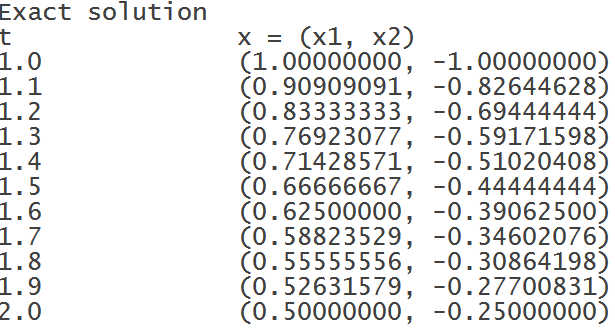
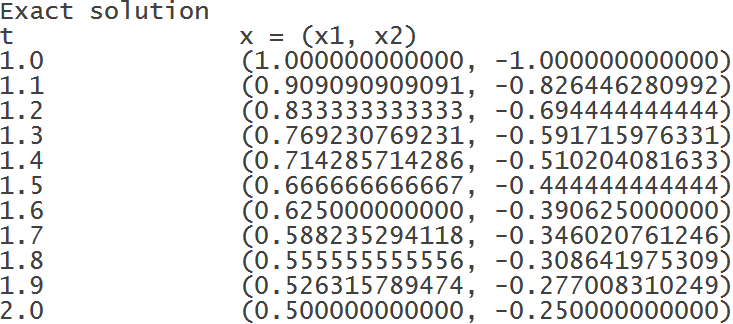
add thinking about errors

diff --git a/lab3/report/latex/lab3.tex b/lab3/report/latex/lab3.tex
@@ -37,14 +37,31 @@
 
 \section{Ход выполнения работы}
 
-Вначале дифференциальное уравнение \ref{equation:1} при помощи подстановок $x_1(t) = y(t)$ и $x_2(t) = y'(t)$ было приведено к системе:
+Вначале дифференциальное уравнение \ref{equation:1} засчёт подстановок $x_1(t) = y(t)$ и $x_2(t) = y'(t)$ было приведено к системе:
+
+%\begin{displaymath}
+%\begin{cases}
+%	x'_1(t) = 0 \cdot x_1(t) + 1 \cdot x_2(t)
+%	\\
+%	x'_2(t) = - \frac{1}{t(t+1)} \cdot x_1(t) - \frac{3t+2}{t(t+1)} \cdot x_2(t)
+%\end{cases}
+%\end{displaymath}
 
 \begin{displaymath}
-\begin{cases}
-	x'_1(t) = 0 \cdot x_1(t) + 1 \cdot x_2(t)
-	\\
-	x'_2(t) = - \frac{1}{t(t+1)} \cdot x_1(t) - \frac{3t+2}{t(t+1)} \cdot x_2(t)
-\end{cases}
+\begin{pmatrix}
+    x'_1(t) \\
+    x'_2(t) \\
+\end{pmatrix}
+  =
+\begin{pmatrix}
+    0 & 1 \\
+    - \frac{1}{t(t+1)} & \frac{3t+2}{t(t+1)} \\
+\end{pmatrix}
+\cdot
+\begin{pmatrix}
+    x_1(t) \\
+    x_2(t) \\
+\end{pmatrix}
 \end{displaymath}
 
 Затем было разработано программное обеспечение на языке программирования \textbf{java}, позволяющее решить поставленные задачи. Данное программное обеспечение включает в себя:
@@ -54,7 +71,7 @@
 
  Она включает в себя функцию \textbf{rkf45}, которая содержит вызов стандартной форсайтовской функции \textbf{rkf45}, разработанной на языке программирования \textbf{с}.
 
- Еще \textbf{Diffeqs} содержит самостоятельно написанную функцию \textbf{eulerCauchy}. Данная функция численно решает дифференциальное уравнение, используя метод Эйлера-Коши 2-й степени:
+ Еще \textbf{Diffeqs} содержит самостоятельно написанную функцию \textbf{eulerCauchy}. Данная функция численно решает дифференциальное уравнение, используя метод Эйлера-Коши 2-й степени.
  
 \begin{displaymath}
 \begin{cases}
@@ -70,48 +87,121 @@
 
 \end{itemize}
 
-На рисунках \ref{pic:demo1} и \ref{pic:demo2} изображен вывод работы программы: результат решения системы дифференциальных уравнений на отрезке $1\dots2$ с шагом $h=0.1$ стандартной функцией \textbf{rkf45}, функцией \textbf{eulerCauchy} и по аналитически полученной точной формуле соответственно.
+На рисунках \ref{pic:demo1} - \ref{pic:demo3} изображен вывод работы программы: результат решения системы дифференциальных уравнений на отрезке $[1, 2]$ с шагом $h=0.1$ стандартной функцией \textbf{rkf45} с установленной относительной погрешностью $10^{-13}$, функцией \textbf{eulerCauchy} и по аналитически полученной точной формуле соответственно.
 
 \begin{figure}[H]
     \centering
-    \begin{subfigure}[t]{0.5\textwidth}
-        \centering
-        \includegraphics[height=1.72in]{rkf45}
-        \caption{RKF45}
-    \end{subfigure}%
-    ~ 
-    \begin{subfigure}[t]{0.5\textwidth}
-        \centering
-        \includegraphics[height=1.72in]{euler_cauchy}
-        \caption{Метод Эйлера-Коши}
-    \end{subfigure}
-    \caption{Вывод программы}
+    \includegraphics[height=2.2in]{rkf45}
+    \caption{Вывод программы: RKF45}
     \label{pic:demo1}
-\end{figure}
+\end{figure} 
+
+\begin{figure}[H]
+    \centering
+    \includegraphics[height=2.2in]{euler_cauchy}
+    \caption{Вывод программы: метод Эйлера-Коши}
+    \label{pic:demo2}
+\end{figure} 
 
 \begin{figure}[H]
     \centering
     \includegraphics[height=2.2in]{exact}
     \caption{Вывод программы: точное решение}
-    \label{pic:demo2}
+    \label{pic:demo3}
 \end{figure} 
 
-По выводу программы видно, что значения, полученные с использованием функции \textbf{rkf45}, совпадают с точными значениями с точностью 7 - 8 знаков после точки, а значения, полученные методом Эйлера-Коши имеют точность 1 - 2 знака после точки. 
+По выводу программы видно, что значения, полученные с использованием функции \textbf{rkf45}, совпадают с точными значениями с точностью 12 знаков после точки, а значения, полученные методом Эйлера-Коши имеют точность 1 - 2 знака после точки. 
+
+На рисунке \ref{pic:graphic1} изображены графики точного решения исходного дифференциального уравнения \ref{equation:1} и решения методом Эйлера-Коши:
+
+\begin{figure}[H]
+\begin{center}
+	\begin{tikzpicture} [every plot/.append style={thick}]
+		\begin{axis}[			
+			height=0.5\textheight,
+			width=1.0\textwidth,
+			legend pos=north east,
+			xlabel={$t$},
+			ylabel={$y(t)$},
+			xlabel near ticks,
+			ylabel near ticks,			
+			xmax=2.0,
+			xmin=1.0,
+			ymax=1.0,
+			ymin=0.5,
+			xmode=linear,			
+			grid=major
+		]
+		\addplot table[x=t,y=exactValue,col sep=comma]{data/exactValues.csv};
+		%\addplot table[x=t,y=rkf45Value,col sep=comma]{data/rkf45Values.csv};
+		\addplot table[x=t,y=eulerCauchyValue,col sep=comma]{data/eulerCauchyValues.csv};
+		\legend{Точное решение: $\frac{1}{t}$, Метод Эйлера-Коши}
+		\end{axis}
+	\end{tikzpicture}
+	\caption{График точного решения и решения методом Эйлера-Коши}
+	\label{pic:graphic1}
+\end{center}
+\end{figure}
+
+По графику на рисунке \ref{pic:graphic2} видно, что чем ближе к концу отрезка $[1, 2]$, тем сильнее решение методом Эйлера-Коши отклоняется от точного решения.
+
+Построим график погрешности решения метом Эйлера-Коши на отрезке $[1, 2]$:
+
+\begin{figure}[H]
+\begin{center}
+	\begin{tikzpicture} [every plot/.append style={thick}]
+		\begin{axis}[			
+			height=0.25\textheight,
+			width=1.0\textwidth,
+			xlabel={$t$},
+			ylabel={$|\varepsilon(t)|$},
+			xlabel near ticks,
+			ylabel near ticks,			
+			xmax=2.0,
+			xmin=1.0,
+			ymax=0.0081,
+			ymin=0.0,
+			%ymode=log,
+			%log basis y=10, 
+			grid=major
+		]
+		\addplot table[x=t,y=eulerCauchyEpsilon,col sep=comma]{data/eulerCauchyEpsilons.csv};
+		\end{axis}
+	\end{tikzpicture}
+	\caption{Погрешность решения методом Эйлера-Коши на каждом шаге на $[1, 2]$}
+	\label{pic:graphic2}
+\end{center}
+\end{figure}
+
+Локальная погрешность монотонно возрастает на отрезке $[1, 2]$ и принимает значения от 0 до $8 \cdot 10^{-3}$. Определим, является ли это нормой.
+
+Для метода 2-й степени формула приближения главного члена погрешности имеет вид: 
+\begin{displaymath}
+\varepsilon_{n+1} = \frac{h^3 \cdot x'''(\eta)}{3!}\text{, где $\eta \in a\dots b$}
+\end{displaymath}
+
+Вычислим приближенное значение локальной погрешности метода Эйлера-Коши на первом шаге:
+
+\begin{displaymath}
+\varepsilon_{1} = \frac{h^3 \cdot x'''(\eta)}{3!} = \left.\frac{h^3 \cdot \frac{-6}{t^4}}{6} \right|_{t=\eta} = \left.-\frac{h^3}{t^4} \right|_{t=\eta} = -\frac{{0.1}^3}{1^4} = -10^{-3}
+\end{displaymath}
+
+Получили, что значения реальной локальной погрешности на отрезке $[1, 2]$ пропорциональны значению теоретической локальной погрешности на первом шаге и превышают значение теоретической локальной погрешности (начиная с третьего шага) меньше, чем на порядок. Превышение объясняется накоплением глобальной погрешности.
 
 \section{Выводы}
 
-Решение системы дифференциальных уравнений при помощи функции \textbf{rkf45} оказалось более точным, чем решение методом Эйлера-Коши. Полученный результат был ожидаем, потому что функция \textbf{rkf45} реализует методы Рунге-Кутты 4-й и 5-й степени, в то время как метод Эйлера-Коши имеет лишь 2-ую степень.
+Решение системы дифференциальных уравнений при помощи функции \textbf{rkf45} оказалось более точным, чем решение методом Эйлера-Коши. Полученный результат был ожидаем, потому что функция \textbf{rkf45} реализует методы Рунге-Кутты 4-й и 5-й степени, в то время как метод Эйлера-Коши имеет лишь 2-ую степень. Точность, полученная при решении системы дифференциальных уравнений методом Эйлера-Коши оказалась сопоставимой с точностью метода 2-й степени и поэтому функция \textbf{eulerCauchy} скорее всего составлена верно.
 
 \newpage
 
 \section*{Приложение 1. Листинги кода}
 
 \captionof{lstlisting}{Приложение}
-\lstinputlisting[label=code:Lab3, linerange={15-87}]{../../../app/src/main/java/com/lamtev/comp_maths_labs/lab3/app/Lab3.java}
+\lstinputlisting[label=code:Lab3, linerange={1-162}]{../../../app/src/main/java/com/lamtev/comp_maths_labs/lab3/app/Lab3.java}
 \parindent=1cm
 
 \captionof{lstlisting}{Функция eulerCauchy}
-\lstinputlisting[label=code:EulerCauchy, linerange={7-39}]{../../../diffeqs_lib/src/main/java/com/lamtev/comp_maths_labs/lab3/diffeqs_lib/EulerCauchy.java}
+\lstinputlisting[label=code:EulerCauchy, linerange={1-41}]{../../../diffeqs_lib/src/main/java/com/lamtev/comp_maths_labs/lab3/diffeqs_lib/EulerCauchy.java}
 \parindent=1cm
 
 \end{document}

diff --git a/lab3/app/src/main/java/com/lamtev/comp_maths_labs/lab3/app/Lab3.java b/lab3/app/src/main/java/com/lamtev/comp_maths_labs/lab3/app/Lab3.java
@@ -4,6 +4,8 @@ import com.lamtev.comp_maths_labs.lab3.diffeqs_lib.DiffeqsUtil.Fun;
 import org.apache.commons.lang3.mutable.MutableDouble;
 import org.apache.commons.lang3.mutable.MutableInt;
 
+import java.io.FileWriter;
+import java.io.IOException;
 import java.util.Arrays;
 import java.util.Locale;
 
@@ -17,6 +19,7 @@ public class Lab3 {
     private static final double LEFT = 1;
     private static final double RIGHT = 2;
     private static final double STEP = 0.1;
+    private static int POINTS_NUMBER = (int) ((RIGHT - LEFT) / STEP) + 1;
 
     private static final Fun FUN = (t, x, dx) -> {
         dx[0] = 0 * x[0] + 1 * x[1];
@@ -24,48 +27,69 @@ public class Lab3 {
     };
 
     public static void main(String[] args) {
-        exactDemo();
-        rkf45Demo();
-        eulerCauchyDemo();
+        double[][] systemExactValues = solveSystemExactly();
+        printTable(systemExactValues, "Exact solution");
+        double[][] systemRkf45Values = solveSystemByRkf45();
+        printTable(systemRkf45Values, "RKF45");
+        double[][] systemEulerCauchyValues = solveSystemByEulerCauchy();
+        printTable(systemEulerCauchyValues, "Euler-Cauchy");
+        makeCsvs(systemExactValues, systemRkf45Values, systemEulerCauchyValues);
     }
 
-    private static void exactDemo() {
+    private static double[][] solveSystemExactly() {
         double x[] = new double[N];
-        System.out.println("Exact solution");
-        printTAndX();
+        double[][] values = new double[POINTS_NUMBER][N];
+        int i = 0;
         for (double t = LEFT; t <= RIGHT + STEP; t += STEP) {
-            x[0] = 1 / t;
-            x[1] = -1 / (t * t);
-            printTAndXValues(t, x);
+            calculateExactValues(x, t);
+            values[i++] = Arrays.copyOf(x, N);
         }
+        return values;
     }
 
-    private static void eulerCauchyDemo() {
-        double x[] = Arrays.copyOf(INITIAL_CONDITIONS, N);
-        System.out.println("Euler-Cauchy");
-        printTAndX();
-        printTAndXValues(LEFT, x);
-        for (double t = LEFT; t <= RIGHT; t += STEP) {
-            eulerCauchy(FUN, N, t, x, STEP);
-            printTAndXValues(t + STEP, x);
-        }
-    }
-
-    private static void rkf45Demo() {
+    private static double[][] solveSystemByRkf45() {
         double x[] = Arrays.copyOf(INITIAL_CONDITIONS, N);
         MutableDouble t = new MutableDouble(1);
         MutableDouble tOut = new MutableDouble();
-        MutableDouble relErr = new MutableDouble(0.00001);
-        MutableDouble absErr = new MutableDouble(0.00001);
+        MutableDouble relErr = new MutableDouble(1e-13);
+        MutableDouble absErr = new MutableDouble(1e-13);
         MutableInt iFlag = new MutableInt(1);
         double[] work = new double[15];
         int[] iWork = new int[5];
-        System.out.println("RKF45");
-        printTAndX();
+        double[][] values = new double[POINTS_NUMBER][N];
+        int i = 0;
         for (double tout = LEFT; tout <= RIGHT + STEP; tout += STEP) {
             tOut.setValue(tout);
             rkf45(FUN, N, x, t, tOut, relErr, absErr, iFlag, work, iWork);
-            printTAndXValues(t.getValue(), x);
+            values[i++] = Arrays.copyOf(x, N);
+        }
+        return values;
+    }
+
+    private static double[][] solveSystemByEulerCauchy() {
+        double x[] = Arrays.copyOf(INITIAL_CONDITIONS, N);
+        double[][] values = new double[POINTS_NUMBER][N];
+        int i = 0;
+        values[i++] = INITIAL_CONDITIONS;
+        for (double t = LEFT; t <= RIGHT; t += STEP) {
+            eulerCauchy(FUN, N, t, x, STEP);
+            values[i++] = Arrays.copyOf(x, N);
+        }
+        return values;
+    }
+
+    private static void calculateExactValues(double[] x, double t) {
+        x[0] = 1 / t;
+        x[1] = -1 / (t * t);
+    }
+
+    private static void printTable(double[][] values, String tableName) {
+        System.out.println(tableName);
+        printTAndX();
+        double t = 1.0;
+        for (int j = 0; j < POINTS_NUMBER; ++j) {
+            printTAndXValues(t, values[j]);
+            t += STEP;
         }
     }
 
@@ -75,8 +99,64 @@ public class Lab3 {
 
     private static void printTAndXValues(double t, double[] x) {
         System.out.format(Locale.US, "%1.1f\t\t", t);
-        System.out.format(Locale.US, "(%1.8f, ", x[0]);
-        System.out.format(Locale.US, "%1.8f)\n", x[1]);
+        System.out.format(Locale.US, "(%1.12f, ", x[0]);
+        System.out.format(Locale.US, "%1.12f)\n", x[1]);
+    }
+
+    private static void makeCsvs(double[][] exactValues, double[][] rkf45Values,
+                                 double[][] eulerCauchyValues) {
+        double[] points = getPoints();
+        double[] exacts = getFirstEquationValues(exactValues);
+        makeCsv("exactValues", points, exacts);
+        double[] rkf45s = getFirstEquationValues(rkf45Values);
+        makeCsv("rkf45Values", points, rkf45s);
+        double[] eulerCauchys = getFirstEquationValues(eulerCauchyValues);
+        makeCsv("eulerCauchyValues", points, eulerCauchys);
+        double[] rkf45Epsilons = getEpsilons(exacts, rkf45s);
+        makeCsv("rkf45Epsilons", points, rkf45Epsilons);
+        double[] eulerCauchyEpsilons = getEpsilons(exacts, eulerCauchys);
+        makeCsv("eulerCauchyEpsilons", points, eulerCauchyEpsilons);
+    }
+
+    private static double[] getPoints() {
+        double[] points = new double[POINTS_NUMBER];
+        double t = LEFT;
+        for (int i = 0; i < POINTS_NUMBER; ++i) {
+            points[i] = t;
+            t += STEP;
+        }
+        return points;
+    }
+
+    private static double[] getFirstEquationValues(double[][] systemValues) {
+        double[] exacts = new double[POINTS_NUMBER];
+        int i = 0;
+        for (double[] row : systemValues) {
+            exacts[i++] = row[0];
+        }
+        return exacts;
+    }
+
+    private static double[] getEpsilons(double[] exactValues, double[] methodValues) {
+        double[] rkf45Epsilons = new double[POINTS_NUMBER];
+        for (int i = 0; i < POINTS_NUMBER; ++i) {
+            rkf45Epsilons[i] = Math.abs(exactValues[i] - methodValues[i]);
+        }
+        return rkf45Epsilons;
+    }
+
+    private static void makeCsv(String csvName, double[] points, double[] values) {
+        try (FileWriter fileWriter = new FileWriter(csvName + ".csv")) {
+            fileWriter.write("t, " + csvName.substring(0, csvName.lastIndexOf("s")));
+            fileWriter.write(System.getProperty("line.separator"));
+            for (int i = 0; i < POINTS_NUMBER; ++i) {
+                fileWriter.write(String.format(Locale.US, "%1.1f", points[i]) + ", "
+                        + String.format(Locale.US, "%1.12f", values[i]));
+                fileWriter.write(System.getProperty("line.separator"));
+            }
+        } catch (IOException e) {
+            e.printStackTrace();
+        }
     }
 
 }

diff --git a/lab3/report/latex/titlepage.tex b/lab3/report/latex/titlepage.tex
@@ -16,7 +16,7 @@
 
 
 	\begin{flushright} % выравнивание по правому краю
-		\begin{minipage}{0.25\textwidth} % врезка в половину ширины текста
+		\begin{minipage}{0.30\textwidth} % врезка в половину ширины текста
 			\begin{flushleft} % выровнять её содержимое по левому краю
 
 				\large\textbf{Работу выполнил:}\\
@@ -24,7 +24,7 @@
 				\large {Группа:} 23501/4\\
 				
 				\large \textbf{Преподаватель:}\\
-				\large Цыган В.Н.
+				\large к.т.н, доц. Цыган В.Н.
 
 			\end{flushleft}
 		\end{minipage}
